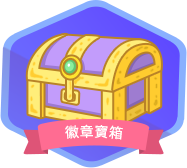
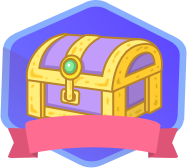
0608

Changed region(s): [[0.0267, 0.6845, 0.9626, 0.9524]]

diff --git a/rally/css/style.css b/rally/css/style.css
@@ -316,11 +316,13 @@ body { font-family: 'Noto Sans', 'Noto Sans TC', 'Noto Sans SC', 'Microsoft Jhen
 
 .modal.deleted_card_modal.modal-static .modal-dialog { transform: translate(0, -50%) scale(1.03); }
 
-.modal.modal-badge .modal-dialog { width: 85%; max-width: 1019px; transition: 0.3s; padding: 0.5rem 0; }
+.modal.modal-badge .modal-dialog { width: 90%; max-width: 1019px; transition: 0.3s; padding: 0.5rem 0; }
 
 .modal.modal-badge .modal-dialog .modal-content .modal-header { padding: 0; position: relative; z-index: 1; border: 0px; }
 
-.modal.modal-badge .modal-dialog .modal-content .modal-header .modal_header_box { position: absolute; left: 50%; bottom: -30px; transform: translate(-50%, 0); width: 17%; }
+.modal.modal-badge .modal-dialog .modal-content .modal-header .modal_header_box { position: absolute; left: 50%; bottom: -40px; transform: translate(-50%, 0); width: 33%; max-width: 185px; }
+
+.modal.modal-badge .modal-dialog .modal-content .modal-header .modal_header_box .modal_header_box_text { position: absolute; left: 50%; bottom: 12.5%; transform: translate(-50%, 0px); color: #fff; font-size: 12px; }
 
 .modal.modal-badge .modal-dialog .modal-content .modal-header .btn_close { position: absolute; top: 15px; right: 15px; color: #fff; }
 
@@ -328,7 +330,7 @@ body { font-family: 'Noto Sans', 'Noto Sans TC', 'Noto Sans SC', 'Microsoft Jhen
 
 .modal.modal-badge .modal-dialog .modal-content .modal-body { background-color: #b284f6; padding: 0 15px 15px; }
 
-.modal.modal-badge .modal-dialog .modal-content .modal-body .modal-body-badge-area { background-color: #fff; padding: 35px 10px 10px; display: flex; justify-content: flex-start; flex-wrap: wrap; }
+.modal.modal-badge .modal-dialog .modal-content .modal-body .modal-body-badge-area { background-color: #fff; padding: 45px 10px 10px; display: flex; justify-content: flex-start; flex-wrap: wrap; }
 
 .modal.modal-badge .modal-dialog .modal-content .modal-body .modal-body-badge-area .body-badge-item { position: relative; margin: 10px 10px; width: calc(25% - 20px); }
 
@@ -460,7 +462,10 @@ nav .breadcrumb .breadcrumb-item.active { color: #4a2f96; }
 
 .page .pagination a:hover, .page .pagination a:active, .page .pagination a.active, .page .pagination span:hover, .page .pagination span:active, .page .pagination span.active { background-color: #4a2f96; color: #fff; }
 
+@media screen and (min-width: 500px) { .modal.modal-badge .modal-dialog .modal-content .modal-header .modal_header_box .modal_header_box_text { font-size: 14px; } }
+
 @media screen and (min-width: 576px) { .modal.modal-badge .modal-dialog { padding: 1.75rem 0; }
+  .modal.modal-badge .modal-dialog .modal-content .modal-header .modal_header_box .modal_header_box_text { font-size: 16px; }
   .page .pagination a, .page .pagination span { padding: 5px 0.8rem; } }
 
 @media screen and (min-width: 768px) { .modal .modal-dialog .modal-content .modal_body .modal_body_item .input_group_area { display: flex; justify-content: space-between; align-items: flex-start; }
@@ -468,6 +473,8 @@ nav .breadcrumb .breadcrumb-item.active { color: #4a2f96; }
   .modal .modal-dialog .modal-content .modal_body .modal_body_item .additional_materials_item .additional_materials_item_right .additional_materials_item_right_content_area .photo_area .upload_img_box { width: calc(50% - 30px); }
   .modal .modal-dialog .modal-content .modal_body .modal_body_item .additional_materials_item .additional_materials_item_right .additional_materials_item_right_content_area .photo_area .upload_img_box img { height: calc(100% - 88px); }
   .modal .modal-dialog .modal-content .modal_body .modal_body_item.choose_color_area .choose_color_content .choose_color_content_item { width: 80px; height: 80px; }
+  .modal.modal-badge .modal-dialog .modal-content .modal-header .modal_header_box { bottom: -30px; width: 25%; }
+  .modal.modal-badge .modal-dialog .modal-content .modal-header .modal_header_box .modal_header_box_text { font-size: 18px; }
   .modal.modal-badge .modal-dialog .modal-content .modal-header .btn_close i { font-size: 40px; }
   .modal.modal-badge .modal-dialog .modal-content .modal-body { padding: 0 25px 25px; }
   .modal.modal-badge .modal-dialog .modal-content .modal-body .modal-body-badge-area { padding: 45px 30px; }
@@ -601,11 +608,15 @@ footer .footer_area .footer_copyright p { color: #fff; text-align: left; }
 
 .form-control:focus { border-color: #b284f6; box-shadow: inset 0 1px 1px rgba(178, 13, 246, 0.08); }
 
-.form-check .form-check-input { border-radius: 0; margin-top: 0.35em; }
+.form-check { padding: 0; display: flex; align-items: center; }
 
-.form-check .form-check-input:focus { border-color: #b284f6; outline: 0; box-shadow: none; }
+.form-check .form-check-input { border-radius: 5px; margin: 0 10px; }
 
-.form-check .form-check-input:checked { background-color: #b284f6; border-color: #b284f6; }
+.form-check .form-check-input:focus { background-color: transparent !important; border-color: #b284f6; outline: 0; box-shadow: none; }
+
+.form-check .form-check-input:checked { background-color: transparent; border-color: #b284f6; position: relative; background-image: none; }
+
+.form-check .form-check-input:checked::after { font-family: "Font Awesome 5 Free"; font-weight: 900; content: "\f00c"; position: absolute; left: 50%; top: 50%; transform: translate(-50%, -50%); color: #b284f6; }
 
 /**/
 html, body { font-size: 14px !important; }
@@ -776,11 +787,11 @@ header nav .container-fluid .navbar-collapse ul li.nav-item.navTab-user .nav-lin
 
 .index_area .index_area_content .honor_area .honor_area_content .honor_area_content_item.honor_medal::before { position: absolute; left: 0; transform: translate(calc(-100% - 10px), 0); width: 25px; }
 
-.index_area .index_area_content .honor_area .honor_area_content .honor_area_content_item.honor_medal.honor_medal_one::before { content: url(../../image/index/honor/honor_medal_one.png); }
+.index_area .index_area_content .honor_area .honor_area_content .honor_area_content_item.honor_medal.honor_medal_one::before { content: url(../image/index/honor/honor_medal_one.png); }
 
-.index_area .index_area_content .honor_area .honor_area_content .honor_area_content_item.honor_medal.honor_medal_two::before { content: url(../../image/index/honor/honor_medal_two.png); }
+.index_area .index_area_content .honor_area .honor_area_content .honor_area_content_item.honor_medal.honor_medal_two::before { content: url(../image/index/honor/honor_medal_two.png); }
 
-.index_area .index_area_content .honor_area .honor_area_content .honor_area_content_item.honor_medal.honor_medal_three::before { content: url(../../image/index/honor/honor_medal_three.png); }
+.index_area .index_area_content .honor_area .honor_area_content .honor_area_content_item.honor_medal.honor_medal_three::before { content: url(../image/index/honor/honor_medal_three.png); }
 
 @media screen and (min-width: 768px) { .index_area .index_area_content .news .news_content .news_item .news_item_title { width: calc(100% - 105px); }
   .index_area .index_area_content .honor_area .honor_area_content { flex-direction: row; justify-content: space-between; }
@@ -1141,7 +1152,7 @@ header nav .container-fluid .navbar-collapse ul li.nav-item.navTab-user .nav-lin
 
 .login .login-header { text-align: center; margin-bottom: 1.5rem; font-size: 1rem; font-weight: 500; }
 
-.login .login-header img { max-width: 186px; display: block; margin: 0 auto; }
+.login .login-header img { max-width: 186px; display: block; margin: 0 auto 15px; }
 
 .login .login-body .nav-link { border-radius: 0; color: #2e3233; border-bottom: 3px solid #c6c6c6; }
 
@@ -1740,7 +1751,11 @@ main .card_main_area .card_button.card_button_main_color:hover p { color: #fff !
 
 main .card_main_area .card_total_area { width: 100%; }
 
-main .badge_area { position: fixed; right: 20px; bottom: 20px; width: 100px; }
+main .badge_area { position: fixed; right: 20px; bottom: 20px; width: 130px; }
+
+main .badge_area .badge_area_text { transform: translate(20%, -5%) rotate(10deg); color: #fff; font-size: 14px; position: absolute; bottom: 0; }
+
+main .badge_area .badge_area_svg { position: absolute; left: 0; top: 0; z-index: -1; width: 100%; fill: #4a2f96; }
 
 @media screen and (min-width: 576px) { main .progress_bar_area .progress_bar { top: calc(48px / 2); height: 5px; }
   main .progress_bar_area .progress_bar .progress_bar_item.progress_bar_dot_area .progress_bar_dot { width: 14px; height: 14px; }
@@ -1788,7 +1803,8 @@ main .badge_area { position: fixed; right: 20px; bottom: 20px; width: 100px; }
   main .card_main_area .card_item_area .card_main_button.card_main_button_delete { margin: 0; }
   main .card_main_area .card_item_area .card_main_content_item .card_main_content_left .card_main_content_icon .svg_icon { font-size: 25px; }
   main .card_main_area .card_item_area .card_main_content_item .card_main_content_right .card_main_content_right_footer .card_icon .svg_icon { font-size: 25px; }
-  main .badge_area { width: 155px; } }
+  main .badge_area { width: 155px; }
+  main .badge_area .badge_area_text { transform: translate(20%, -20%) rotate(10deg); font-size: 16px; } }
 
 @media screen and (min-width: 1200px) { main .progress_bar_area { margin: 160px auto 60px; }
   main .progress_bar_area .progress_bar { top: calc(65px / 2); height: 7px; }

diff --git a/rally/scss/base/_universal.scss b/rally/scss/base/_universal.scss
@@ -517,7 +517,7 @@
 
   &.modal-badge {
     .modal-dialog {
-      width: 85%;
+      width: 90%;
       max-width: 1019px;
       transition: 0.3s;
       padding: 0.5rem 0;
@@ -532,9 +532,19 @@
           .modal_header_box {
             position: absolute;
             left: 50%;
-            bottom: -30px;
+            bottom: -40px;
             transform: translate(-50%, 0);
-            width: 17%;
+            width: 33%;
+            max-width: 185px;
+
+            .modal_header_box_text{
+              position: absolute;
+              left: 50%;
+              bottom: 12.5%;
+              transform: translate(-50%, 0px);
+              color: $white;
+              font-size: 12px;
+            }
           }
 
           .btn_close {
@@ -555,7 +565,7 @@
 
           .modal-body-badge-area {
             background-color: $white;
-            padding: 35px 10px 10px;
+            padding: 45px 10px 10px;
             display: flex;
             justify-content: flex-start;
             flex-wrap: wrap;
@@ -1002,6 +1012,30 @@ nav {
   }
 }
 
+@media screen and (min-width: 500px) {
+
+  .modal {
+
+    &.modal-badge {
+      .modal-dialog {
+
+        .modal-content {
+
+          .modal-header {
+
+            .modal_header_box {
+  
+              .modal_header_box_text{
+                font-size: 14px;
+              }
+            }
+          }
+        }
+      }
+    }
+  }
+}
+
 @media screen and (min-width: 576px) {
 
   .modal {
@@ -1009,6 +1043,19 @@ nav {
     &.modal-badge {
       .modal-dialog {
         padding: 1.75rem 0;
+
+        .modal-content {
+
+          .modal-header {
+
+            .modal_header_box {
+  
+              .modal_header_box_text{
+                font-size: 16px;
+              }
+            }
+          }
+        }
       }
     }
   }
@@ -1083,6 +1130,15 @@ nav {
         .modal-content {
 
           .modal-header {
+
+            .modal_header_box {
+              bottom: -30px;
+              width: 25%;
+  
+              .modal_header_box_text{
+                font-size: 18px;
+              }
+            }
 
             .btn_close {
               i {

diff --git a/rally/scss/pages/_index.scss b/rally/scss/pages/_index.scss
@@ -168,19 +168,19 @@
     
                         &.honor_medal_one{
                             &::before{
-                                content: url(../../image/index/honor/honor_medal_one.png);
+                                content: url(../image/index/honor/honor_medal_one.png);
                             }
                         }
     
                         &.honor_medal_two{
                             &::before{
-                                content: url(../../image/index/honor/honor_medal_two.png);
+                                content: url(../image/index/honor/honor_medal_two.png);
                             }
                         }
     
                         &.honor_medal_three{
                             &::before{
-                                content: url(../../image/index/honor/honor_medal_three.png);
+                                content: url(../image/index/honor/honor_medal_three.png);
                             }
                         }
                     }

diff --git a/rally/scss/mend/_customBS.scss b/rally/scss/mend/_customBS.scss
@@ -29,17 +29,34 @@
     }
 }
 .form-check{
+    padding: 0;
+    display: flex;
+    align-items: center;
     .form-check-input{
-        border-radius: 0;
-        margin-top: 0.35em;
+        border-radius: 5px;
+        margin: 0 10px;
         &:focus {
+            background-color: transparent !important;
             border-color: $rally-primary;
             outline: 0;
             box-shadow: none;
         }
         &:checked {
-            background-color: $rally-primary;
+            background-color: transparent;
             border-color: $rally-primary;
+            position: relative;
+            background-image: none;
+
+            &::after{
+                font-family: "Font Awesome 5 Free";
+    font-weight: 900;
+    content: "\f00c";
+    position: absolute;
+    left: 50%;
+    top: 50%;
+    transform: translate(-50%, -50%);
+    color: $rally-primary;
+            }
         }    
     }   
 }

diff --git a/rally/STUDENT/firstStop_index.html b/rally/STUDENT/firstStop_index.html
@@ -899,6 +899,13 @@
     <div class="badge_area">
       <a href="#BadgeModal" class="card_link" data-bs-toggle="modal">
         <img src="../image/badge/box.png" alt="">
+        <p class="badge_area_text">徽章寶箱</p>
+        <div class="badge_area_svg">
+          <svg version="1.1" x="0px" y="0px" viewBox="0 0 153 121" style="enable-background:new 0 0 153 121;" xml:space="preserve">
+<ellipse class="st0" cx="76.5" cy="89.5" rx="76.5" ry="31.5"/>
+</svg>
+       
+        </div>
       </a>
     </div>
 
@@ -910,6 +917,7 @@
         <img src="../image/badge/badge_header.png" alt="">
         <div class="modal_header_box">
           <img src="../image/badge/badge_header_box.png" alt="">
+          <p class="modal_header_box_text">徽章寶箱</p>
         </div>
         <button type="button" class="btn_close" data-bs-dismiss="modal" aria-label="Close">
           <i class="fa-solid fa-xmark"></i>

diff --git a/rally/scss/pages/_firstStop_index.scss b/rally/scss/pages/_firstStop_index.scss
@@ -856,7 +856,22 @@ main {
         position: fixed;
         right: 20px;
         bottom: 20px;
-        width: 100px;
+        width: 130px;
+        .badge_area_text{
+            transform: translate(20%, -5%) rotate(10deg);
+    color: $white;
+    font-size: 14px;
+    position: absolute;
+    bottom: 0;
+        }
+        .badge_area_svg{
+            position: absolute;
+            left: 0;
+            top: 0;
+            z-index: -1;
+            width: 100%;
+            fill:$dark_main_color;
+        }
     }
 }
 
@@ -1192,6 +1207,11 @@ main {
 
         .badge_area{
             width: 155px;
+
+            .badge_area_text{
+                transform: translate(20%, -20%) rotate(10deg);
+        font-size: 16px;
+            }
         }
     }
 

diff --git a/rally/login.html b/rally/login.html
@@ -8,6 +8,7 @@
 <title>SmartReading閱讀拉力賽</title>
 <link rel="shortcut icon" type="image/x-icon" href="image/SR.ico">
 <link rel="stylesheet" type="text/css" href="css/bootstrap-5.1.1.min.css">
+<link rel="stylesheet" href="css/fontawesome-6.2.1-all.min.css">
 
 <!-- this page widgets CSS --> 
 
@@ -105,6 +106,7 @@
 
 <script src="js/jquery-3.5.1.min.js"></script> 
 <script src="js/bootstrap-5.1.1.min.js"></script> 
+<script src="js/fontawesome-free-6.1.1.min.js"></script>
 <script>
         $(document).ready(function () {
             $('header').load('header.html');

diff --git a/rally/scss/pages/_login.scss b/rally/scss/pages/_login.scss
@@ -47,7 +47,7 @@
         img{
             max-width: 186px;
             display: block;
-            margin: 0 auto;
+            margin: 0 auto 15px;
         }
     }
     .login-body{
